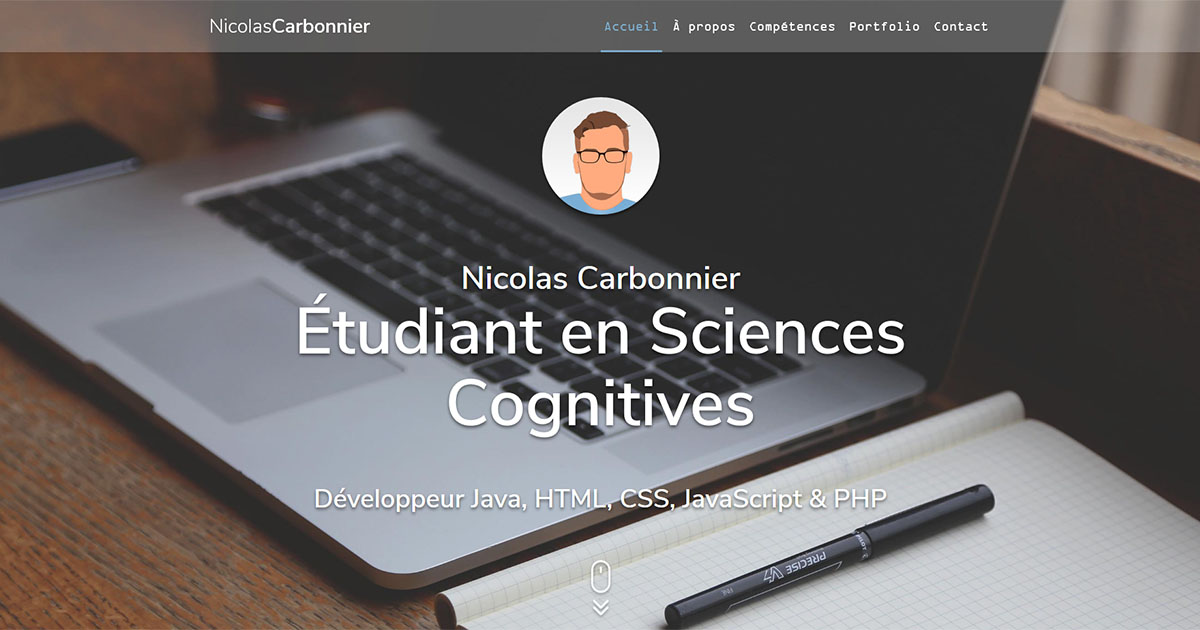
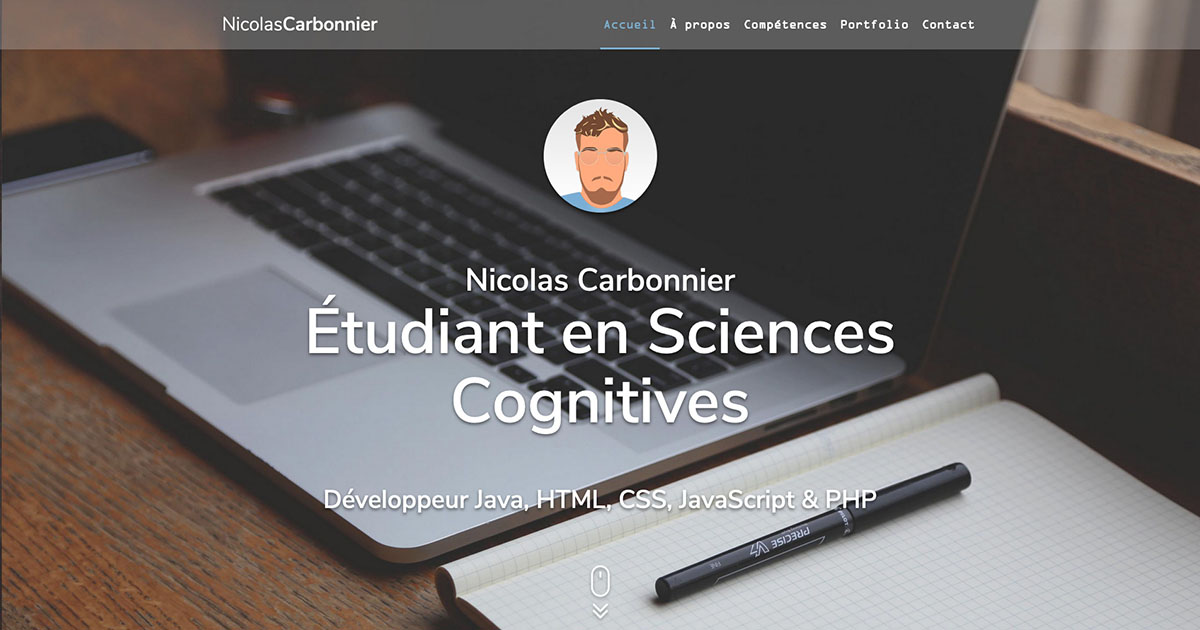
v1.3 - Mise à jour partie À propos, modification pp-flat

diff --git a/index.html b/index.html
@@ -5,10 +5,10 @@
         <meta charset="utf-8"/>
         <meta name="author" content="Nicolas Carbonnier"/>
         <meta name="copyright" content="Nicolas Carbonnier"/>
-        <meta name="description" content="Portfolio de Nicolas Carbonnier, étudiant en 3ème année de Licence Sciences Cognitive à l'IDMC de Nancy et développeur Java, HTML, CSS, JavaScript & PHP"/>
-        <meta name="keywords" content="Nicolas Carbonnier, étudiant, portfolio, développeur, student, licence, sciences cognitives, informatique, java, html, css, javascript, php, jquery, ajax, dut, nancy, saint dié"/>
+        <meta name="description" content="Portfolio de Nicolas Carbonnier, étudiant en 1ère année de Master Sciences Cognitive à l'IDMC de Nancy et développeur Java, HTML, CSS, JavaScript & PHP"/>
+        <meta name="keywords" content="Nicolas Carbonnier, étudiant, portfolio, développeur, student, licence, master, sciences cognitives, informatique, java, html, css, javascript, php, jquery, ajax, dut, nancy, saint dié"/>
         <meta property="og:title" content="Nicolas Carbonnier | Portfolio"/>
-        <meta property="og:description" content="Portfolio de Nicolas Carbonnier, étudiant en 3ème année de Licence Sciences Cognitive à l'IDMC de Nancy et développeur Java, HTML, CSS, JavaScript & PHP"/>
+        <meta property="og:description" content="Portfolio de Nicolas Carbonnier, étudiant en 1ère année de Master Sciences Cognitive à l'IDMC de Nancy et développeur Java, HTML, CSS, JavaScript & PHP"/>
         <meta property="og:type" content="website"/>
         <meta property="og:url" content="https://nicolas-carbonnier.github.io"/>
         <meta property="og:image" content="https://nicolas-carbonnier.github.io/img/og-photo.jpg"/>
@@ -67,10 +67,16 @@
                     <div class="presentation">
                         <div class="presText">
                             <h2>Nicolas Carbonnier, 21 ans</h2>
-                            <h3>Étudiant en L3 <span class="blue resetColor">Sciences Cognitives</span></h3>
-                            <p>Ma formation a débuté en 2016 avec un <span class="blue resetColor">DUT Informatique</span> à Saint-Dié-des-Vosges et m'a permis d'acquérir des compétences dans différents domaines, principalement en <span class="green resetColor">Développement Web</span>, en <span class="green resetColor">Gestion de Bases de Données</span> et en <span class="green resetColor">Programmation Orientée Objet</span>.</p>
-                            <p>Après l'obtention de mon diplôme en 2018, j'ai poursuivi mes études en intégrant la 2ème année de <span class="blue resetColor">Licence MIASHS</span> parcours Sciences Cognitives à l'IDMC de Nancy. Cela m'a ouvert la porte sur d'autres domaines comme la <span class="green resetColor">Biologie</span> ou la <span class="green resetColor">Psychologie</span> tout en améliorant et en étoffant mes compétences informatiques, notamment avec de l'<span class="green resetColor">Intelligence Artificielle</span>, du <span class="green resetColor">Traitement Automatique des Langues</span> et de l'<span class="green resetColor">Ergonomie Cognitive</span>.</p>
-                            <p>Pour la suite, je pense poursuivre ma formation avec le Master Sciences Cognitives, notamment pour l'<span class="green resetColor">UX Design</span>, l'<span class="green resetColor">IA</span> et le <span class="green resetColor">Game Design</span>.</p>
+                            <h3>Étudiant en M1 <span class="blue resetColor">Sciences Cognitives</span></h3>
+                            <p>
+                                Ma formation a débuté en 2016 avec un <span class="blue resetColor">DUT Informatique</span> à Saint-Dié-des-Vosges et m'a permis d'acquérir des compétences dans différents domaines, principalement en <span class="green resetColor">Développement Web</span>, en <span class="green resetColor">Gestion de Bases de Données</span> et en <span class="green resetColor">Programmation Orientée Objet</span>.
+                            </p>
+                            <p>
+                                Après l'obtention de mon diplôme en 2018, j'ai poursuivi mes études en intégrant la 2ème année de <span class="blue resetColor">Licence MIASHS</span> parcours Sciences Cognitives à l'IDMC de Nancy. Cela m'a ouvert la porte sur d'autres domaines comme la <span class="green resetColor">Biologie</span> ou la <span class="green resetColor">Psychologie</span> tout en améliorant et en étoffant mes compétences informatiques, notamment avec de l'<span class="green resetColor">Intelligence Artificielle</span>, du <span class="green resetColor">Traitement Automatique des Langues</span> et de l'<span class="green resetColor">Ergonomie Cognitive</span>.
+                            </p>
+                            <p>
+                                Aujourd'hui, je suis en <span class="blue resetColor">Master Sciences Cognitives</span>, diplôme dans la continuité de ma Licence et qui me permettra d'ajouter la <span class="green resetColor">Programmation Embarquée</span> (Robotique), l'<span class="green resetColor">UX Design</span> et le <span class="green resetColor">Game Design</span> à mon panel de compétences. En parallèle de mes études, je suis développeur Web en CDI chez <span class="red resetColor">Stratégies & Perspectives d'Avenir</span>, l'entreprise dans laquelle j'ai réalisé mon stage de Licence.
+                            </p>
                         </div>
                         <img src="img/photo.jpg" alt="Photo de profil"/>
                     </div>
@@ -111,12 +117,13 @@
                                 <li>jQuery</li>
                                 <li>AJAX</li>
                                 <li>PHP</li>
+                                <li>Laravel</li>
                                 <li>MySQL</li>
                             </ul>
                             <h2>Outils</h2>
                             <ul>
                                 <li>Logiciels de développement (Netbeans, Scene Builder, Visual Studio Code...)</li>
-                                <li>Travail collaboratif (Github, Trello)</li>
+                                <li>Travail collaboratif (GitHub, Trello)</li>
                                 <li>VirtualBox</li>
                                 <li>Photoshop, Illustrator, Adobe XD, Vegas Pro, Cinema 4D</li>
                             </ul>
@@ -259,7 +266,7 @@
                 <div>Nicolas<span class="bold">Carbonnier</span></div>
             </div>
             <p>
-                Nicolas Carbonnier © 2020 | <a href="#mentions" title="Mentions légales" class="ment">Mentions légales</a>
+                Nicolas Carbonnier © 2020 | v1.3 | <a href="#mentions" title="Mentions légales" class="ment">Mentions légales</a>
             </p>
         </footer>
         <div class="toTop">
@@ -273,7 +280,7 @@
                 <h1>Nicolas Carbonnier</h1>
                 <img src="portfolio/nc/nc.jpg" alt="Nicolas Carbonnier" class="overlayImg"/>
                 <h2>Développement Web</h2>
-                <h3>2020 | Dernière mise à jour en août 2020</h3>
+                <h3>2020 | Dernière mise à jour en octobre 2020</h3>
                 <p>Développement de mon <a href="https://nicolas-carbonnier.github.io" title="Portfolio">Portfolio</a> pour me présenter et vous faire découvrir mon parcours et mes projets.</p>
                 <div class="flex">
                     <ul>

diff --git a/style.css b/style.css
@@ -658,6 +658,8 @@ p, li {
 
 .presText>p {
     margin: 1.6rem 0;
+
+    text-align: justify;
 }
 
 .presText>p:first-child {

diff --git a/README.md b/README.md
@@ -1,8 +1,9 @@
 # Nicolas Carbonnier | Portfolio
-Portfolio de Nicolas Carbonnier, étudiant en 3ème année de Licence Sciences Cognitive à l'IDMC de Nancy et développeur Java, HTML, CSS, JavaScript &amp; PHP
+Portfolio de Nicolas Carbonnier, étudiant en 1ère année de Master Sciences Cognitive à l'IDMC de Nancy et développeur Java, HTML, CSS, JavaScript &amp; PHP
 
 **Changelog :**
-- v1.2.1: Corrections fautes
+- v1.3 : Mise à jour partie À propos, modification pp-flat
+- v1.2.1 : Corrections fautes
 - v1.2 : Ajout Cercle SPA, fix menu responsive
 - v1.1 : Modifications partie Portfolio
 - v1.0.3 : Fix des overlays (Portfolio) sous Safari, désactivation du parallaxe sur les iDevices
